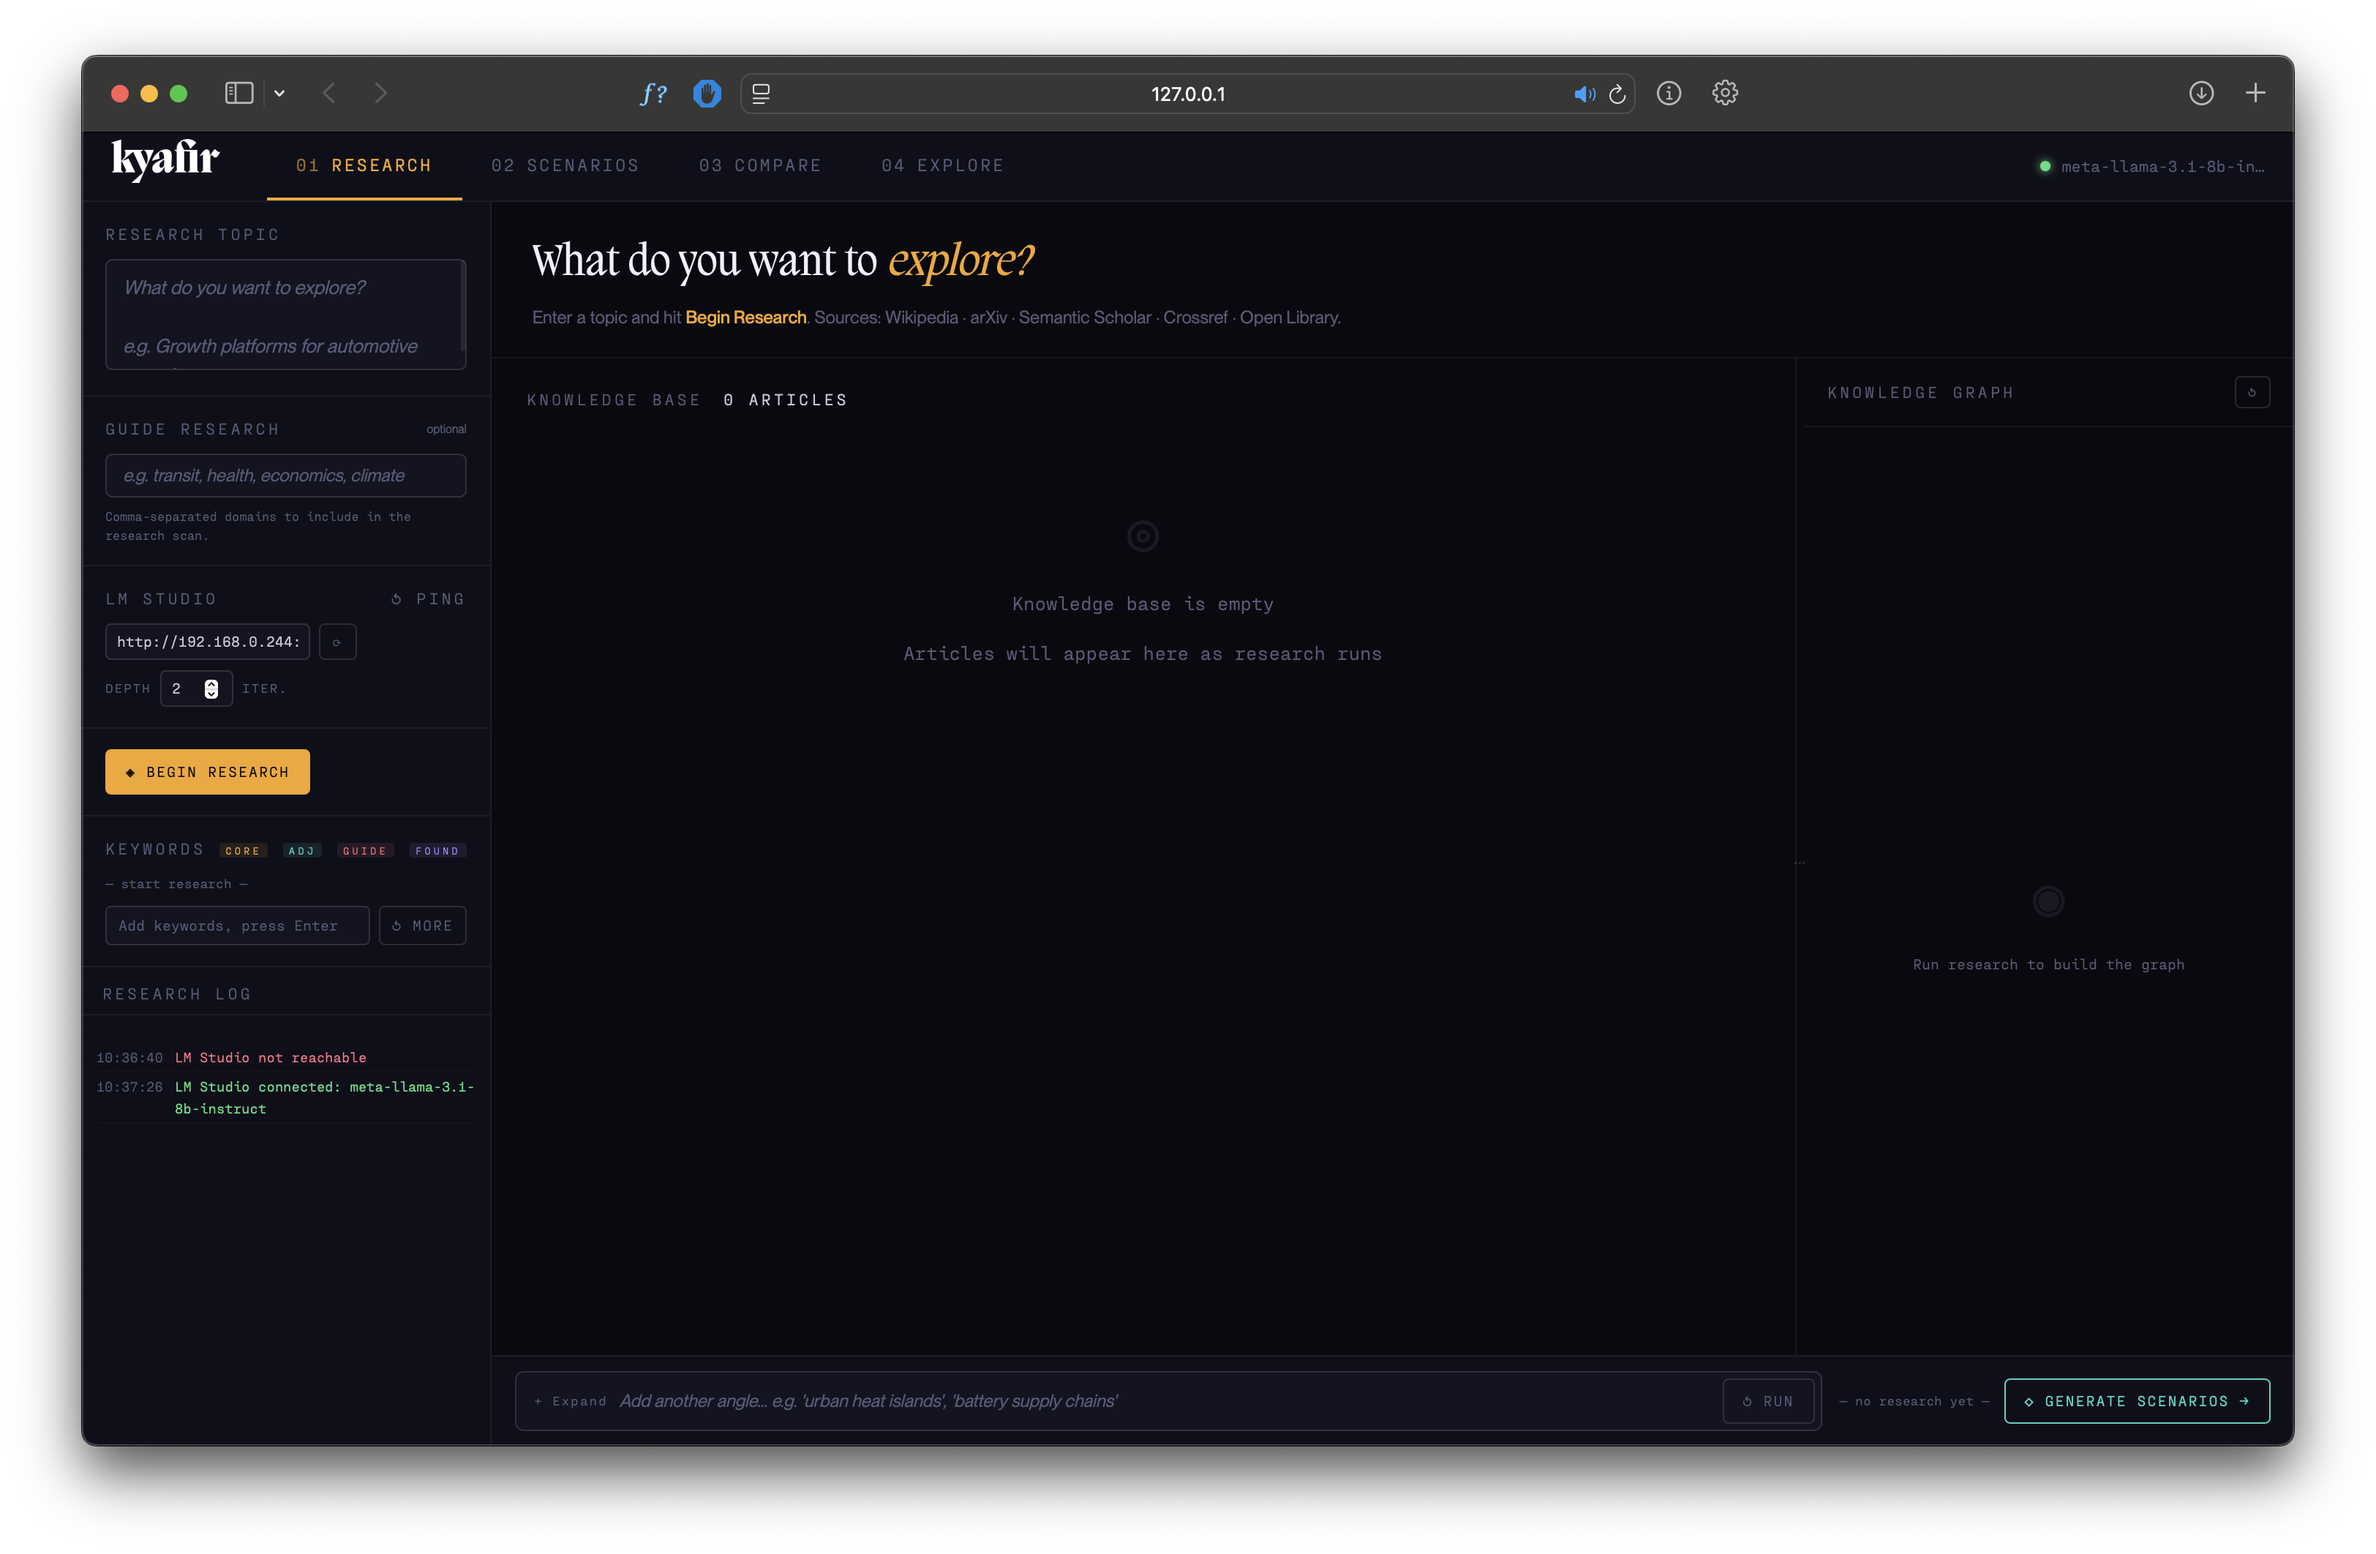
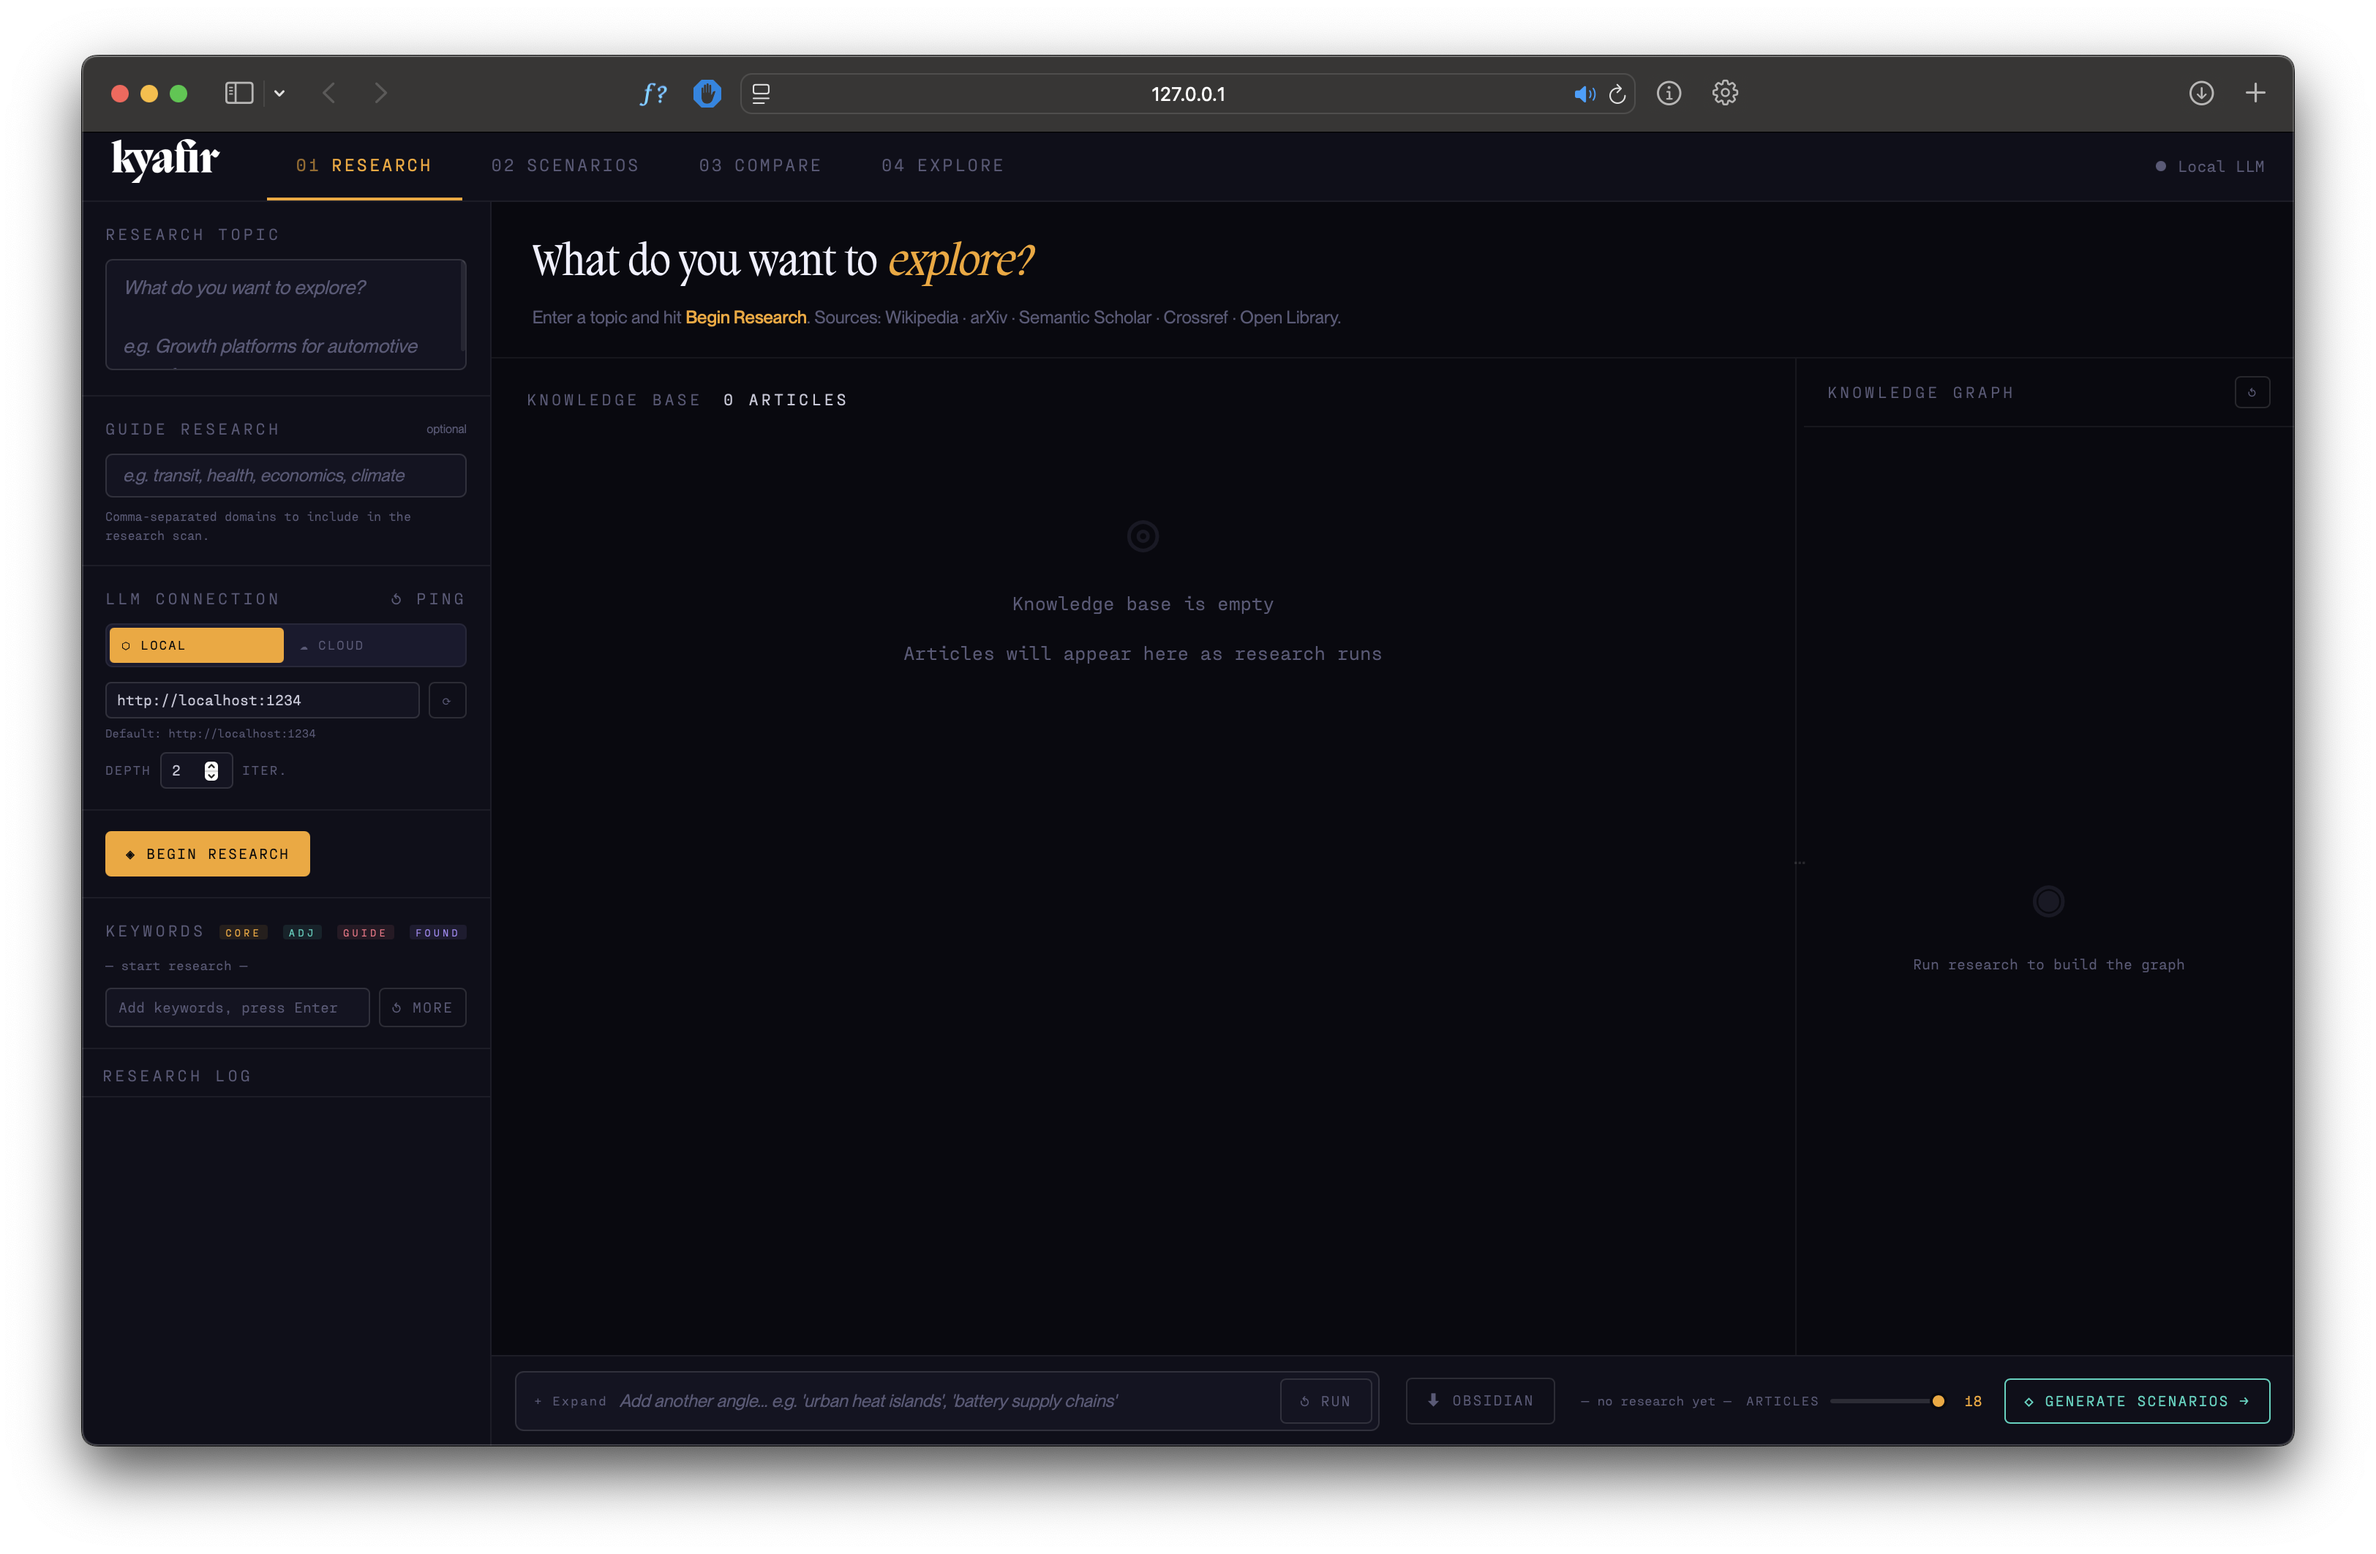
updated Readme
updated readme with usage notes

diff --git a/README.md b/README.md
@@ -18,8 +18,20 @@ Select your model, and start the server.
 
 Navigate to "Server Settings" and enable CORS if it isn't already enabled.
 
-
-
 ![Screenshot](img/kyafir-4.png "Download model of your choice")
 
-Make sure the link to the server is the same as the server link in LMStudio. Click the 'ping' to check the connection.
+
+
+
+
+### Notes
+
+- Switch between the Local (LMStudio on your machine) and Cloud (OpenAI API etc.) as desired.
+
+- The slider at the bottom determines how many articles are taken into context when creating scenarios. I recommend using 15 at max when using a local machine with ~16GB RAM. If scenarios don't generate or you see an error in the logs, reduce that amount. Your results may vary.
+
+- Comparing scenarios does tend to push the local LLMs quite a bit
+
+- Accuracy and rigour is not the objective here. It's about storytelling, design fiction and speculation. Use the LLMs to help your ability to think outside the box, write stories, and investigate. 
+
+- Feedback is always welcome!
